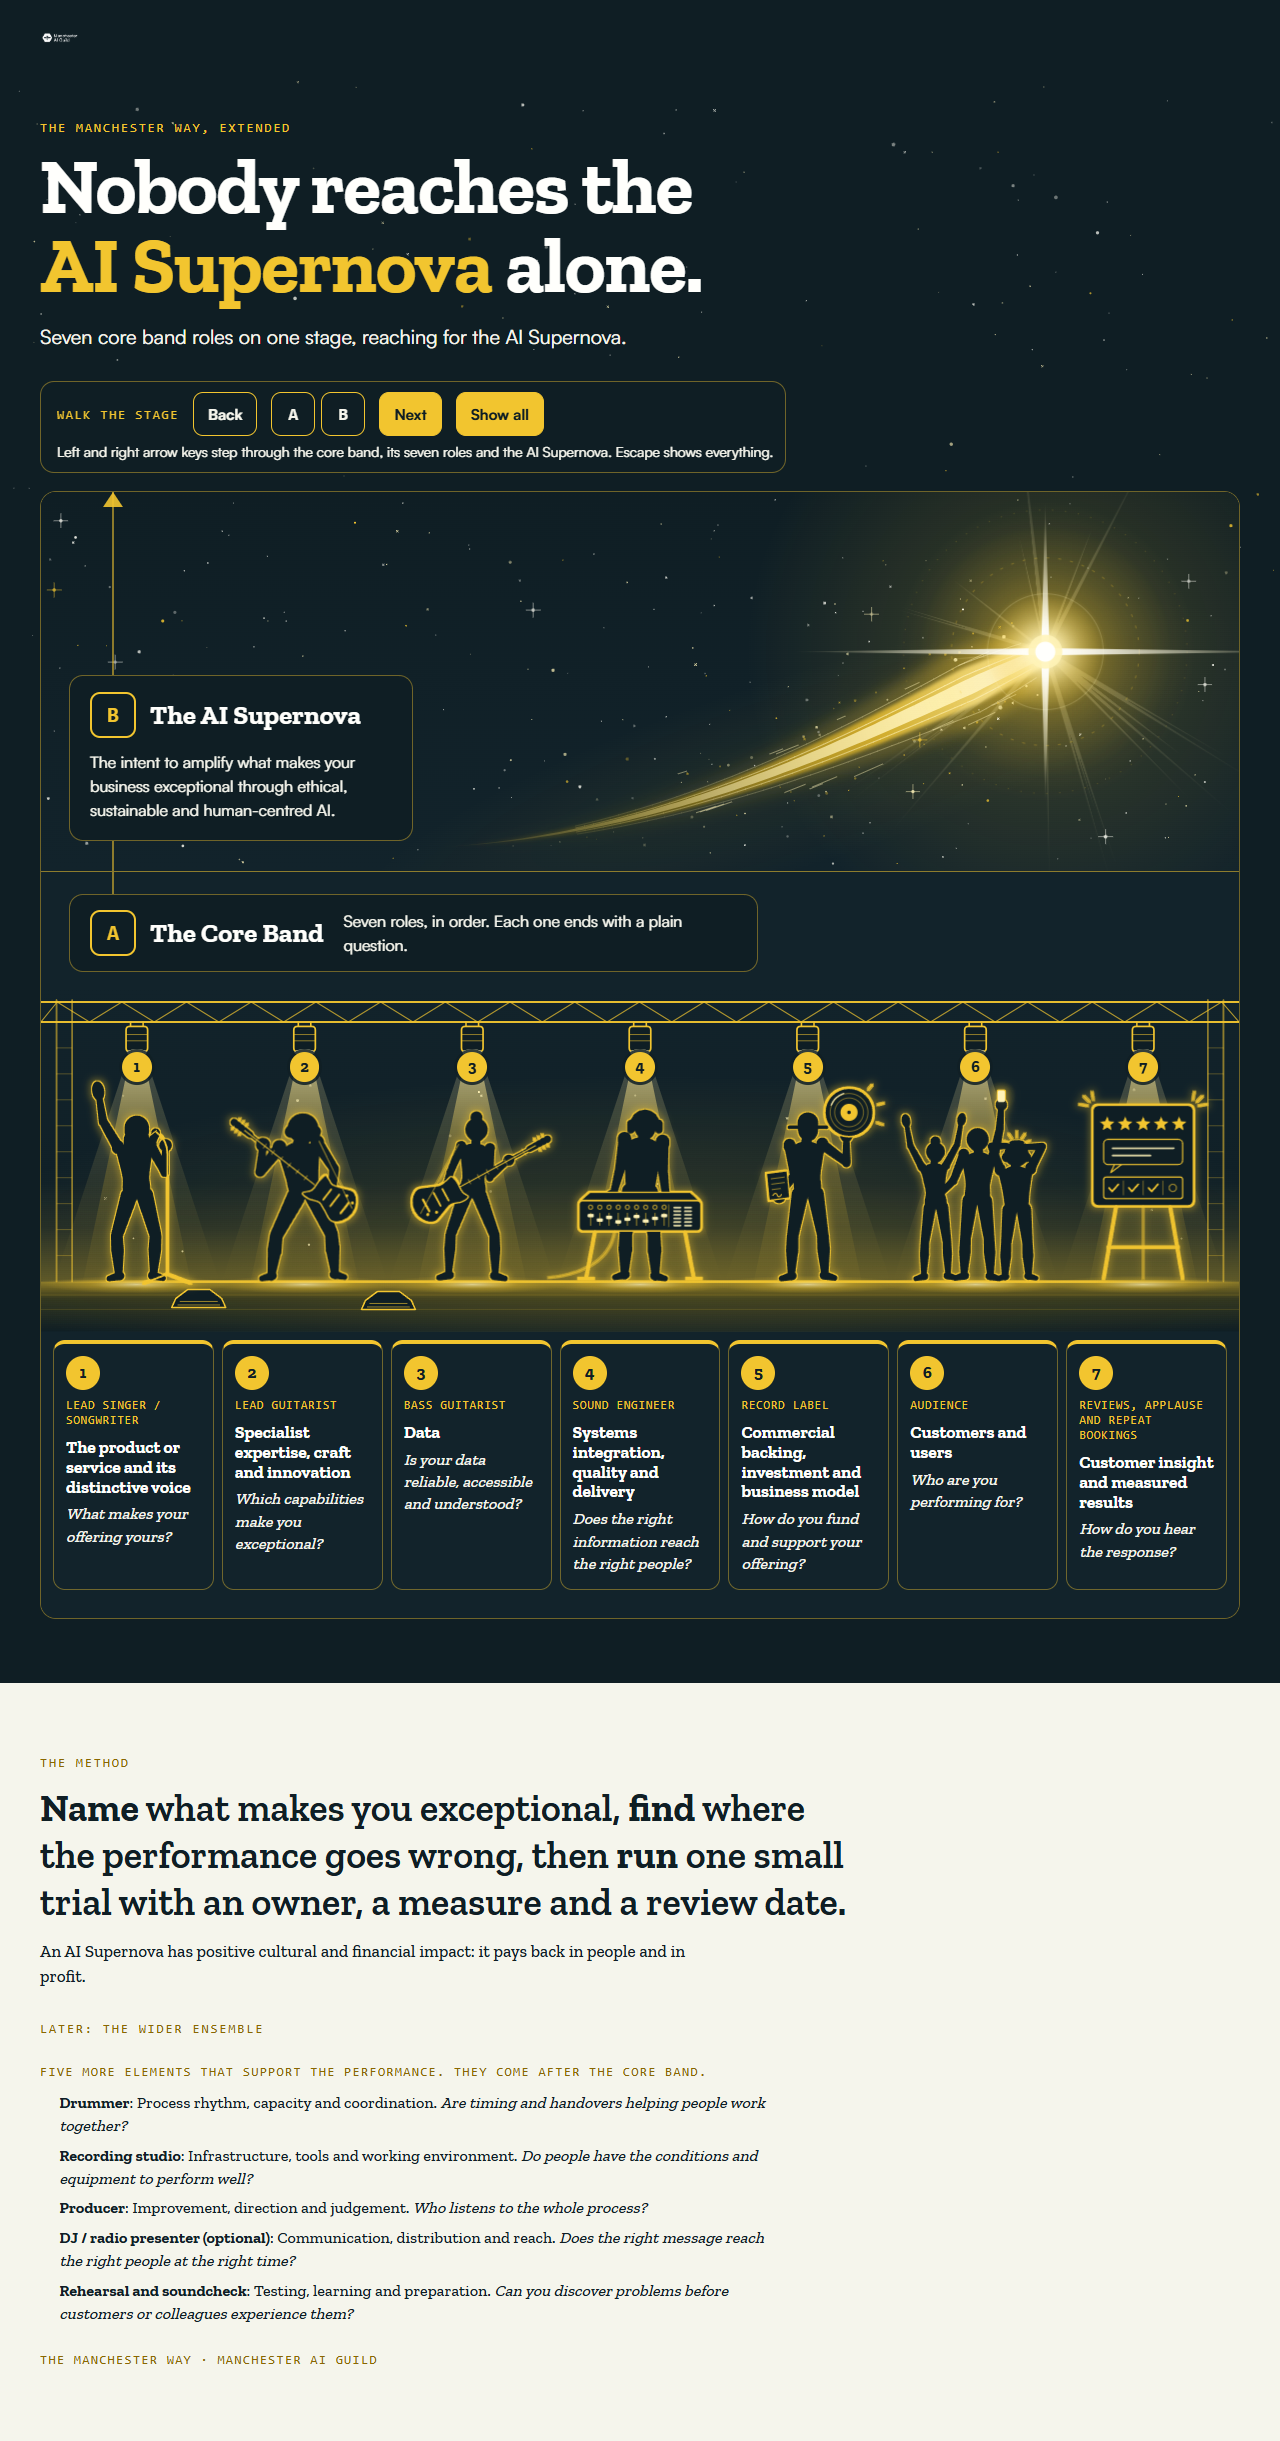
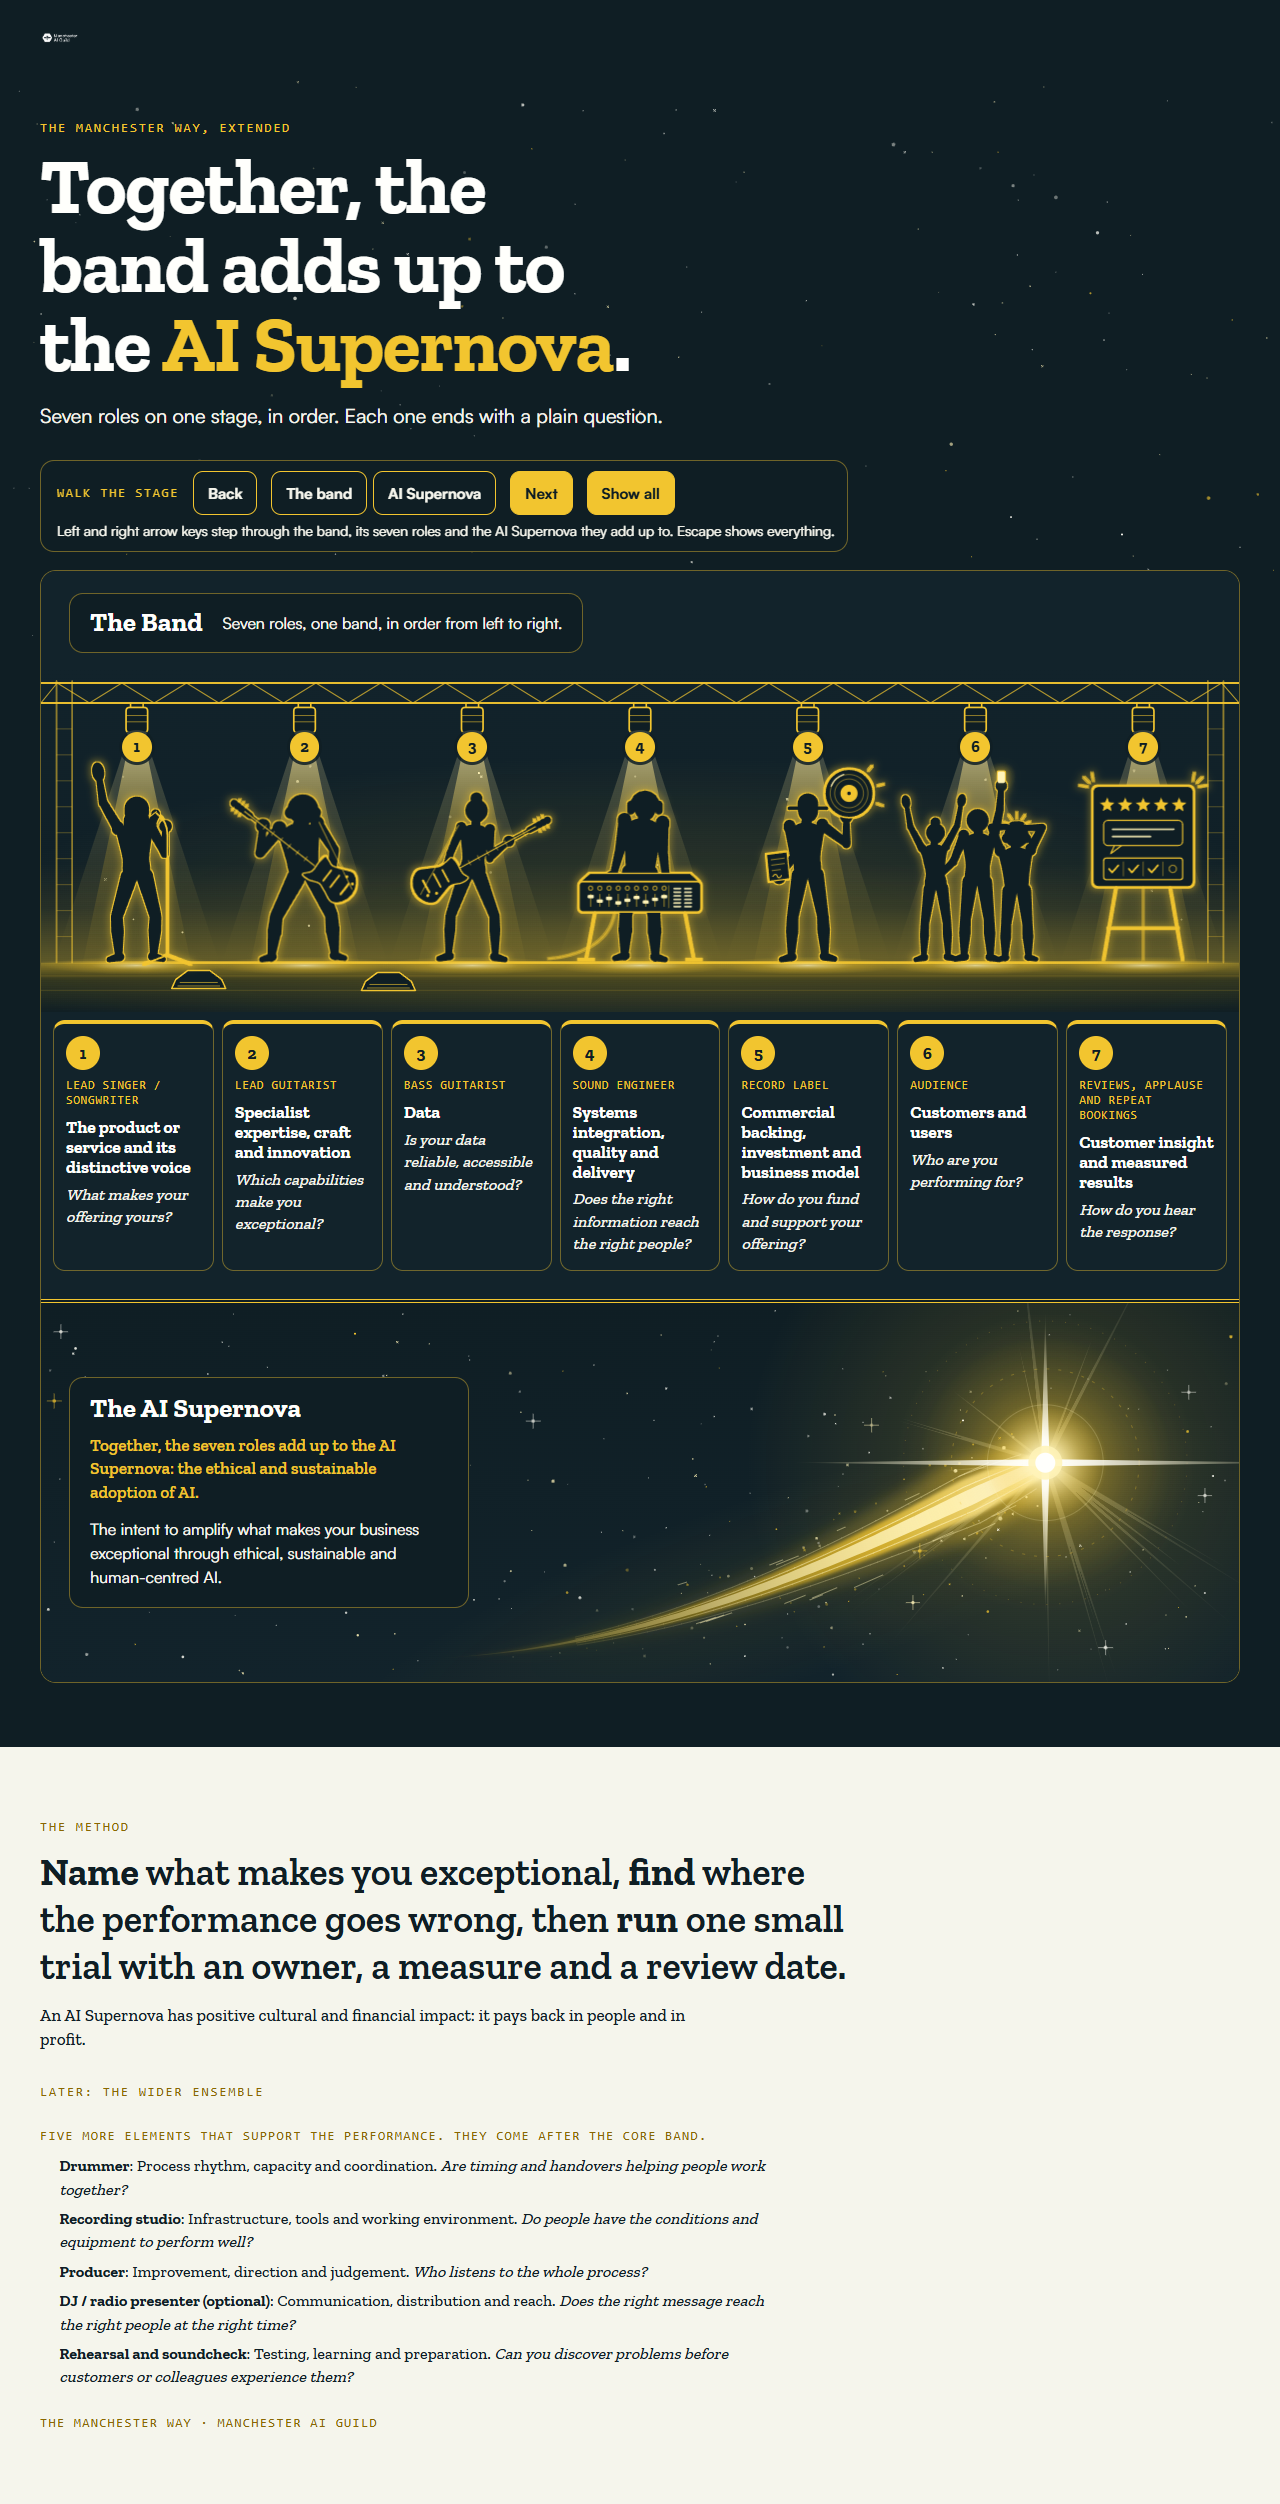
Band infographic: replace with the no A/B version

Changed region(s): [[0.0, 0.0623, 1.0, 0.9652]]

diff --git a/docs/downloads/index.html b/docs/downloads/index.html
@@ -165,7 +165,7 @@
         <tr><td class="file"><b>Guild emblem</b></td><td>The Guild emblem: a white bee on a dark hexagon.</td><td><a class="btn primary" href="maig-logo.png" download>Download PNG (96 KB)</a></td></tr>
         <tr><td class="file"><b>Guild logo (light backgrounds)</b></td><td>Emblem and name together.</td><td><a class="btn primary" href="maig-lockup.png" download>Download PNG (73 KB)</a></td></tr>
         <tr><td class="file"><b>Guild logo (dark backgrounds)</b></td><td>Emblem and name together, in white.</td><td><a class="btn primary" href="maig-lockup-white.png" download>Download PNG (140 KB)</a></td></tr>
-        <tr><td class="file"><b>Band infographic</b></td><td>The seven core roles of The Manchester Way, shown as one picture.</td><td><a class="btn primary" href="manchester-way-band.png" download>Download PNG (786 KB)</a></td></tr>
+        <tr><td class="file"><b>Band infographic</b></td><td>The seven core roles of The Manchester Way, shown as one picture.</td><td><a class="btn primary" href="manchester-way-band.png" download>Download PNG (794 KB)</a></td></tr>
           <tr><td class="file"><b>AI Cookbook</b></td><td>The Guild's method in plain English, in eight pages.</td><td><a class="btn primary" href="ai-cookbook-manchester-way.pdf" download>Download PDF (814 KB)</a></td></tr>
         </tbody>
       </table>
